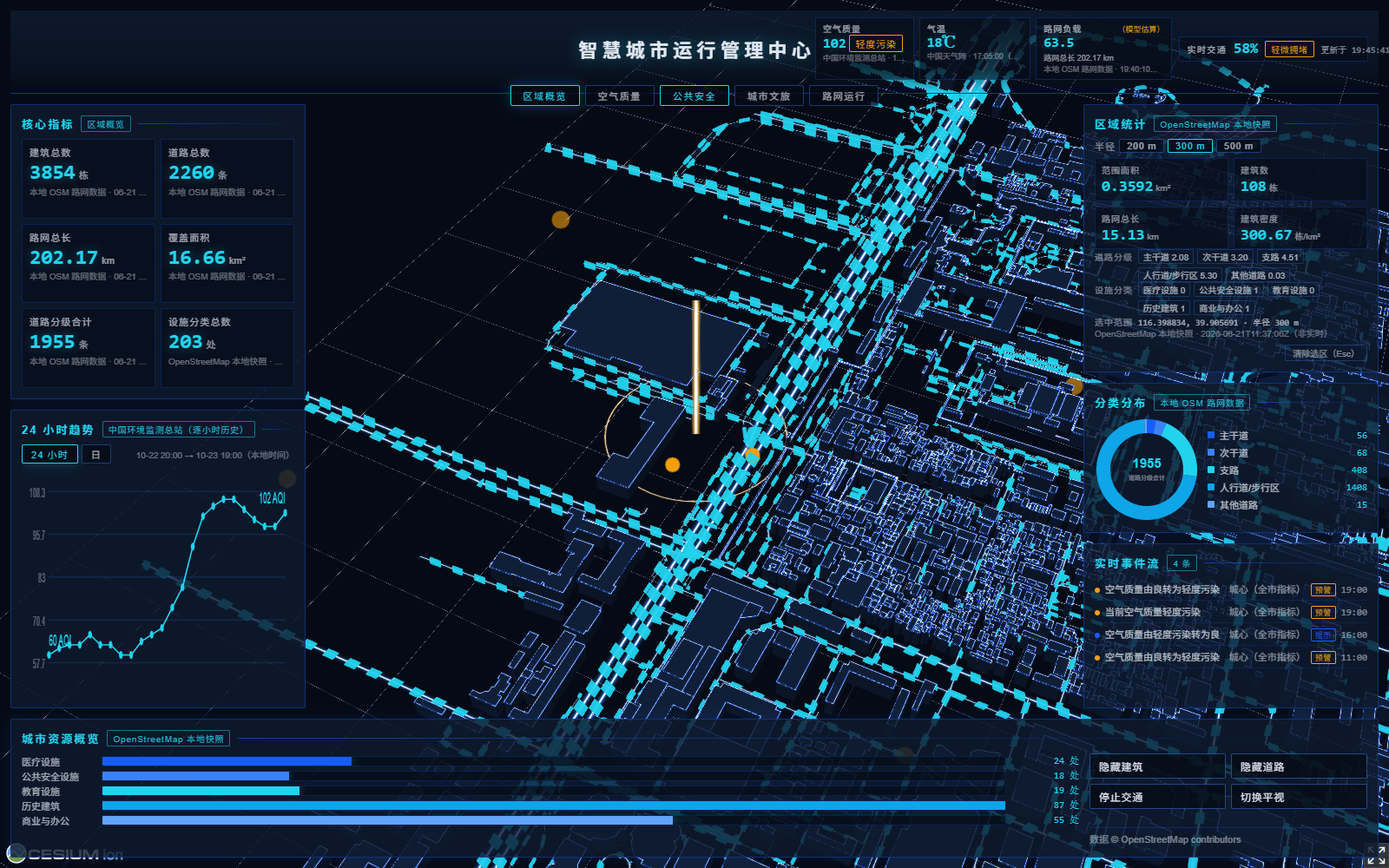
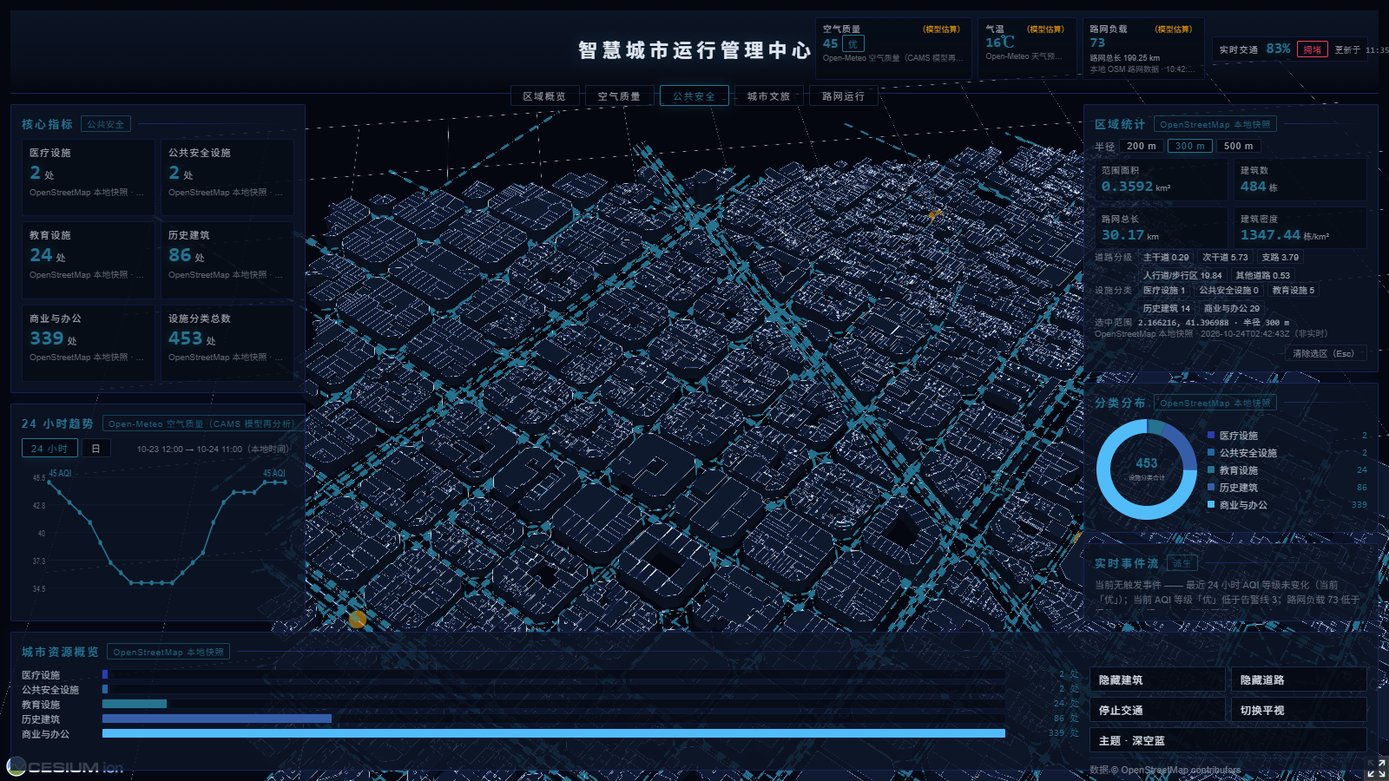
Plan T14: refresh the documentation and screenshots for Barcelona

diff --git a/backend-python/README.md b/backend-python/README.md
@@ -14,7 +14,8 @@ backend-python/
 ├── city_data/         # 城市运行指标数据层（公开数据源 + 聚合 + 降级）
 │   ├── models.py      #   Pydantic 契约（每个指标都必须带 source）
 │   ├── http.py        #   只用标准库的 JSON 取数封装
-│   ├── city_codes.py  #   cnemc 城市/省份代码表静态快照（只有代码，参数校验用）
+│   ├── cities.py     #   城市表静态快照（含取数点与时区，参数校验用）
+│   ├── aqi.py        #   国标 GB/T 3095-2012 的 IAQI 分段与换算（纯函数）
 │   ├── aggregator.py  #   并发取数 + 缓存 + 降级
 │   ├── events.py      #   纯函数：从真实指标派生事件流
 │   └── sources/       #   一个源一个模块（空气质量 / 天气 / 本地路网 / 设施 / 区域统计）
@@ -145,9 +146,10 @@ cd backend-python
 ./.venv/Scripts/python.exe scripts/fetch_osm_data.py
 ```
 
-脚本默认抓取北京天安门周边 `39.905,116.380,39.925,116.420`
-（south,west,north,east）的范围，多端点轮询 + 重试；**空结果会被当成失败**，
-不会把空文件覆盖到现有数据上。完整参数表和注意事项见 `scripts/README.md`。
+脚本默认抓取巴塞罗那 Eixample 街区与圣家堂一带
+`41.385,2.145,41.405,2.185`（south,west,north,east）的范围，多端点轮询 + 重试；
+**空结果会被当成失败**，不会把空文件覆盖到现有数据上。
+完整参数表和注意事项见 `scripts/README.md`。
 
 **文件缺失或损坏的后果**：`/api/buildings` 与 `/api/roads` 会返回 **503**
 （统一文案「城市数据暂时不可用，请稍后重试」），而不是空集合 —— 详见
@@ -278,7 +280,7 @@ font-src 'self' data:
 - `GET /api/buildings` —— 获取建筑数据
 - `GET /api/roads` —— 获取道路数据
 - `GET /api/traffic-status` —— 获取交通状态（**值由时间确定性推导，随时间变化**，不再是写死的固定值）
-- `GET /api/city/overview?cityCode=110000` —— **城市运行指标聚合**（空气质量 / 天气 / 路网静态指标 / 设施分类），每个指标都带来源标注与时间戳
+- `GET /api/city/overview?city=barcelona` —— **城市运行指标聚合**（空气质量 / 天气 / 路网静态指标 / 设施分类），每个指标都带来源标注与时间戳
 - `GET /api/city/area?bbox=min_lon,min_lat,max_lon,max_lat` —— **矩形范围的空间统计**（`bbox` 必填）
 
 `/api/traffic-status` 不校验 API key（前端不携带 key，这个端点必须始终可访问）。
@@ -315,11 +317,11 @@ font-src 'self' data:
 ### `GET /api/city/overview` —— 城市运行指标
 
 把**真实公开数据**聚合成一份带来源标注与时间戳的统一契约。实现在 `city_data/` 包里
-（`models.py` 契约 / `http.py` 取数 / `sources/*` 一个源一个模块 / `aggregator.py`
-并发 + 缓存 + 降级）。
+（`models.py` 契约 / `http.py` 取数 / `cities.py` 城市表 / `aqi.py` AQI 换算 /
+`sources/*` 一个源一个模块 / `aggregator.py` 并发 + 缓存 + 降级）。
 
-- `cityCode` 默认 `110000`（北京），**只接受 cnemc 城市/省份代码表里的值**，
-  否则 400（代码表是静态快照，校验**不依赖网络** —— 上游挂了也不会把端点变成 400）。
+- `city` 默认 `barcelona`（巴塞罗那），**只接受本地城市表 `city_data/cities.py` 里的 id**，
+  否则 400（城市表是静态快照，校验**不依赖网络** —— 上游挂了也不会把端点变成 400）。
 - **端点永不 500**：任何一个上游失败或超时都只是把它放进 `degraded`，
   其余指标照常返回；聚合器整体出意外也返回一份「全部降级」的 200。
 - 响应带 `Cache-Control: public, max-age=30` 与 `X-Data-Generated-At`。
@@ -329,10 +331,10 @@ font-src 'self' data:
 
 | 键 | 类型 | 含义 |
 |---|---|---|
-| `city` | object | `{code, name, latitude, longitude}`（取不到经纬度时为 `null`） |
+| `city` | object | `{id, name, latitude, longitude, timezone}` |
 | `generated_at` | str | 本次响应生成的时间，ISO8601 UTC |
 | `metrics` | array | 指标列表，**每个都带 `source`** |
-| `series` | array | 时间序列（24 小时 AQI + 14 天逐日 AQI） |
+| `series` | array | 时间序列（24 小时 AQI + 逐日 AQI） |
 | `facilities` | array | **设施分类计数**（本地 OSM 快照；取不到时是**空数组**，不编数字） |
 | `degraded` | array | **取不到的源的名字**（前端据此显示「数据源暂不可用」） |
 
@@ -352,7 +354,7 @@ font-src 'self' data:
 
 | 键 | 类型 | 含义 |
 |---|---|---|
-| `name` | str | 来源名（「中国环境监测总站」…） |
+| `name` | str | 来源名（「Open-Meteo 天气预报」…） |
 | `url` | str | 真实取数地址（本地文件用仓库相对路径） |
 | `observed_at` | str \| null | 上游**数据自身**的时间戳；取不到时是 `null` |
 | `fetched_at` | str | 我们**取到**它的时间；缓存命中时仍是**首次**取数的时间 |
@@ -363,13 +365,29 @@ font-src 'self' data:
 
 | 源 | 地址 | 凭据 | 实时性 | 降级 |
 |---|---|---|---|---|
-| 空气质量（AQI / 分级 / 首要污染物） | `https://air.cnemc.cn:18007/CityData/GetAllCityRealTimeAQIModels`（GET） | 免凭据，**必须带 `Referer: https://air.cnemc.cn:18007/`** | 实时（小时级） | 取不到 → 进 `degraded`，指标值 `null` |
-| 污染物浓度 + 24 小时序列 | `https://air.cnemc.cn:18007/HourChangesPublish/GetCityRealTimeAqiHistoryByCondition?citycode=<code>`（**POST，body 为 `{}`**） | 同上 | 实时 | 同上 |
-| 逐日序列（14 天，AQI + 六项污染物日均值） | `https://air.cnemc.cn:18007/HourChangesPublish/GetCityDayAqiHistoryByCondition?citycode=<code>`（**POST，body 为 `{}`**） | 同上 | 按定义不是实时（最旧的一条是 14 天前） | 同上；**只产出序列**，不产出指标 |
-| 气温 / 湿度 | `http://www.weather.com.cn/data/sk/101010100.html` | 免凭据 | **不新鲜**（见下） | 同上 |
+| 气温 / 湿度 / 体感温度 / 风速 / 降水 | `https://api.open-meteo.com/v1/forecast?…&current=…&timezone=<tz>&timeformat=unixtime` | 免凭据 | 小时级（**数值模式**，不是站点实测） | 取不到 → 进 `degraded`，指标值 `null` |
+| AQI / 六项污染物浓度 + 24 小时序列 + 逐日序列 | `https://air-quality-api.open-meteo.com/v1/air-quality?…&hourly=…&timezone=<tz>&timeformat=unixtime` | 免凭据 | 小时级（**CAMS 模型再分析**，11 km 网格） | 同上 |
 | 建筑 / 道路数量、路网总长、覆盖面积、各等级道路条数 | 本地 `geojson/*.geojson` | 无 | 静态快照 | 文件读不到 → 进 `degraded` |
 | 路网负载指数 | 上面那份本地数据**自己算** | 无 | —— | **模型估算**（`estimated: true`） |
 | 设施分类（医疗 / 公共安全 / 教育 / 历史建筑 / 商业办公） | 本地 `geojson/buildings.geojson` **按 OSM 标签统计** | 无 | 静态快照 | 文件读不到 → 进 `degraded`，`facilities` 是**空数组** |
+
+**两个远程源都是模式数据**（数值天气预报 / CAMS 再分析），所以它们的
+`estimated` 是 `true` —— 界面会显示「（模型估算）」。本地 OSM 快照是实测，
+`estimated` 是 `false`。
+
+#### AQI 的口径（**自己算的，不是谁发布的**）
+
+open-meteo 只给**污染物浓度**（μg/m³），不给中国国标口径的 AQI。
+本项目按 **GB/T 3095-2012** 的 IAQI 分段表自己换算（`city_data/aqi.py`）：
+
+- 分段点：`0 / 50 / 100 / 150 / 200 / 300 / 400 / 500`，
+  各污染物的浓度区间与线性内插公式见 `city_data/aqi.py` 的模块 docstring。
+- 统计口径：PM2.5 / PM10 / NO2 / SO2 / CO 取 **24 小时滑动平均**，O3 取 **8 小时滑动平均**。
+- `AQI = max(各污染物的 IAQI)`；全部取不到时是 `null`（**不许填 0** —— 0 在国标里是「优」）。
+- CO 的国标单位是 mg/m³，上游给的是 μg/m³，换算在模块内部做。
+
+**这是「按国标分段表换算出来的 AQI」，不是任何机构发布的 AQI。**
+界面与文档都按这个口径表述，不含糊。
 
 设施分类的规则**只写在 `city_data/sources/facilities.py`**（前端只渲染）：
 医疗 `building=hospital`；公共安全 `amenity=police` / `amenity=fire_station` /
@@ -379,45 +397,42 @@ font-src 'self' data:
 商业与办公 `building=commercial|retail|office|hotel` / `shop=mall` / `office=government`。
 
 **一个建筑只归一类**（按上面顺序取第一个命中）—— 环形图要能对上账，所以不许重复计数。
-2026-10-22 实测（3854 栋建筑，**去重后**）：医疗 **24**、公共安全 **18**、教育 **19**、
-历史建筑 **87**、商业与办公 **55**，合计 **203** 处。`estimated = false`（实测计数，不是模型估算）。
+`estimated = false`（实测计数，不是模型估算）。
 
-三个必须记住的坑（都是实测踩出来的）：
+实测（2026-10-24，本机，巴塞罗那取景范围 4366 栋建筑，**去重后**）：
+医疗 **2**、公共安全 **2**、教育 **24**、历史建筑 **86**、商业与办公 **339**，
+合计 **453** 处。比例悬殊是**数据事实**：Eixample 一带 72% 的建筑是
+`building=apartments`（住宅），不命中任何设施分类；而 `building=hospital`
+在这个范围里**一栋都没有**（医疗的 2 处是 `amenity=clinic` / `healthcare=clinic`）。
 
-1. cnemc 的历史接口**必须 POST 且 body 为空对象**，用 GET 一律 404。
-2. cnemc 的 `TimePoint` 有两种格式：`"/Date(1792558800000)/"`（.NET 毫秒时间戳）
-   与 `"2026-10-22T11:00:00"`（不带时区的本地时间），两种都要能解析。
-3. **天气源只有北京 `101010100` 通**（上海 `101020100`、深圳 `101280601` 都返回
-   HTML 错误页），别的城市直接判为不可用 —— 不去瞎试别的 cityid。
-   而且它的时间戳**不可靠**：只给 `HH:MM`，没有日期，实测本地 12:00 时它报 17:05
-   （落在未来）。本项目的处理是补上今天的日期、落在未来就回退一天，
-   并用「观测时间与当前时间差 > 1 小时」把 `realtime` 标成 `false` ——
-   **不新鲜就说不新鲜**。
+#### 许可与署名
+
+| 数据 | 许可 | 本项目需要做什么 |
+|---|---|---|
+| Open-Meteo 天气 / 空气质量 | **CC BY 4.0** | **必须署名**：Open-Meteo + CAMS ENSEMBLE 数据提供方 |
+| Open-Meteo 免费档 | —— | **仅限非商业用途**；商业用途需要付费档与 API key |
+| OpenStreetMap | **ODbL** | 展示数据时必须标注「© OpenStreetMap contributors」 |
+
+界面里已经有 OSM 署名行（删掉它等于违反许可证）。open-meteo 的署名写在
+README 的「数据来源」小节与 `source.name` 里（源名自带「（CAMS 模型再分析）」）。
 
 #### 缓存与超时
 
-- 六个源**并发**取数（`asyncio.gather` + `asyncio.wait_for`），
+- 四个源**并发**取数（`asyncio.gather` + `asyncio.wait_for`），
   **每个源独立 5 秒预算**：慢源只拖慢自己。
-- 缓存：空气质量 30 分钟、**逐日历史 60 分钟**、天气 10 分钟、静态路网指标进程内常驻。
+- 缓存：空气质量 30 分钟、天气 10 分钟、静态路网指标进程内常驻。
 - **缓存命中时 `fetched_at` 仍是首次取数的时间** —— 那才是真实的数据年龄。
 - 取数失败**不写缓存**（否则坏数据会被缓存住 30 分钟）。
 
-实测（2026-10-22，本机）：冷缓存首次 1125 ms（外部源的真实往返 + 本地 GeoJSON
-统计），第二次起 0–16 ms（走缓存）。
-
 #### 逐日序列
 
-`aqi_daily` 序列是**第 6 个源**（中国环境监测总站 · 逐日历史）产出的：
-**14 天**逐日的 24 小时均值（AQI / PM2.5 / PM10 / O3 / NO2 / SO2 / CO）。
+`aqi_daily` 序列由**同一个**空气质量源产出：**最近 7 个完整的本地日**
+（本地日按响应里的 `utc_offset_seconds` 切分，open-meteo 的日边界也是这么算的）。
 序列点的结构是 `{t, v, values}`：`v` 是当天的 AQI，`values` 是六项污染物的日均值。
 
 **向后兼容**：单指标序列（`aqi_24h`）的点仍然是 `{"t": …, "v": …}` ——
 空的 `values` 键被 `SeriesPoint` 上的 `@model_serializer(mode="wrap")` **整个省掉**，
 所以既有序列的点形状**一个字节都没变**。
-
-上游路径是 `POST` + **空 body** + `Referer` 头，控制器是 **`HourChangesPublish`**
-（站点上没有 `DayChangesPublish` 那个控制器）。逐日与逐小时是**两个源**，
-逐日挂了不影响 24 小时曲线。
 
 ### `GET /api/city/area` —— 矩形范围的空间统计
 
@@ -683,9 +698,13 @@ stats = processor.calculate_building_statistics(data)
 
 - 区域统计的 `facility_categories[].members` **恒为空数组**（只给分类计数，不给成员 id）——
   「点某个分类、高亮该范围内的建筑」还做不到，目前只回答「范围内有多少」
-- 天气源**只有北京可用**（`101010100`），且上游只给 `HH:MM`，时间戳可能落在未来
-  —— 契约里标 `realtime: false`，**不新鲜就说不新鲜**
-- 城市代码表是**静态快照**（**368 个代码**，只有代码没有名称），上游新增城市要重新抓
+- **两个远程源都是模式数据**：天气是数值天气预报，空气质量是 CAMS 模型再分析
+  （11 km 网格）。所以它们的 `source.estimated` 是 `true`，界面上会标「（模型估算）」。
+  AQI 也是**按国标分段表自己换算**的，不是任何机构发布的 AQI
+- 空气质量 API **只有 `hourly` 与 `current`，没有 `daily`**：逐日序列由逐小时数据
+  自己按本地日聚合（本地日用响应里的 `utc_offset_seconds` 切分）
+- 城市表是**静态快照**（手工维护），表里没有的城市 id 会被判为未知（保守的假阴性）
+- Open-Meteo 的免费档**仅限非商业用途**；商业用途需要付费档与 API key
 - `Dockerfile` / `docker-compose.yml` / `deploy/nginx.conf` **未经过 `docker build` /
   `nginx -t` 验证**（本机没有 Docker 与 nginx）
 

diff --git a/backend-python/scripts/README.md b/backend-python/scripts/README.md
@@ -19,7 +19,7 @@
   默认列表是若干公开实例，**本机链路不同时可以自行补充**（给了就替代默认列表；
   空值或全是非法值则回落到默认列表）。
 - **空结果当成失败**：HTTP 200 不等于抓到了数据。Overpass 会在 `remark` 字段里
-  报告运行时错误；只收录部分区域数据的实例会对本项目的北京 bbox 直接
+  报告运行时错误；只收录部分区域数据的实例会对本项目的 bbox 直接
   返回 0 个元素。这两种情况都会换下一个端点继续重试，**绝不会把空结果写成
   GeoJSON 覆盖掉现有数据**。所有端点都拿不到有效数据时脚本以非 0 退出，
   现有数据集保持原样。
@@ -33,10 +33,15 @@
 默认 bbox 为 `south,west,north,east`：
 
 ```
-39.905,116.380,39.925,116.420
+41.385,2.145,41.405,2.185
 ```
 
-即北京天安门周边约 4 km × 2 km 的范围。
+即巴塞罗那 Eixample 街区与圣家堂一带约 3.3 km × 2.2 km 的范围。
+
+> **数据量提醒**：这一带的建筑密度约为 1500 栋/km²，**一次性查询会超时** ——
+> 响应体过大时端点会回 502 或读超时。抓这一片请用 `--bbox` 切成小片分次抓，
+> 再按要素 id 去重合并（跨片的要素会在相邻两片各命中一次，合并时去重即可；
+> Overpass 返回的是**完整几何**、不按 bbox 裁剪，所以去重后几何是完整的那一份）。
 
 前端不再默认带 bbox 发请求（见 Plan 011：默认 bbox 和这份 OSM 抽取的范围完全重合，
 过滤等于没过滤），只有需要看子区域时才会显式传一个 bbox 进来。
@@ -48,8 +53,8 @@
 ```overpass
 [out:json][timeout:180];
 (
-  way["building"](39.905,116.380,39.925,116.420);
-  relation["building"](39.905,116.380,39.925,116.420);
+  way["building"](41.385,2.145,41.405,2.185);
+  relation["building"](41.385,2.145,41.405,2.185);
 );
 out body geom;
 ```
@@ -58,7 +63,7 @@ out body geom;
 
 ```overpass
 [out:json][timeout:180];
-way["highway"](39.905,116.380,39.925,116.420);
+way["highway"](41.385,2.145,41.405,2.185);
 out body geom;
 ```
 
@@ -78,7 +83,7 @@ OVERPASS_ENDPOINTS="https://a.example/api/interpreter,https://b.example/api/inte
 ```
 
 > **端点覆盖范围不一样**：只收录部分区域数据的实例，查别处可能什么都查不到。
-> 实测（第 3 个端点）：用它查北京的 `way["highway"]` 会返回 HTTP 200 +
+> 实测（第 3 个端点）：用它查巴塞罗那的 `way["highway"]` 会返回 HTTP 200 +
 > 0 个元素 —— 脚本会把这种「成功但没数据」的情况当成失败，继续换下一个端点，
 > 不会写出空文件。前两个是全球实例，但在部分网络下会比较慢甚至超时，
 > 所以留了重试；而**死端点由健康探测在 12 秒内排除**（正式查询的 180 秒超时只留给
@@ -98,7 +103,7 @@ OVERPASS_ENDPOINTS="https://a.example/api/interpreter,https://b.example/api/inte
 
 # 换范围
 ./.venv/Scripts/python.exe scripts/fetch_osm_data.py \
-    --bbox 39.900,116.370,39.930,116.430
+    --bbox 41.390,2.158,41.405,2.178
 
 # 只抓一类 / 换输出目录
 ./.venv/Scripts/python.exe scripts/fetch_osm_data.py --only buildings
@@ -110,15 +115,17 @@ OVERPASS_ENDPOINTS="https://a.example/api/interpreter,https://b.example/api/inte
 | 参数 | 默认值 | 说明 |
 |---|---|---|
 | `--endpoint URL` | 无 | 只用这一个 Overpass 端点（不给就按上面的顺序逐个试） |
-| `--bbox s,w,n,e` | `39.905,116.380,39.925,116.420` | 抓取范围，顺序是 `south,west,north,east` |
+| `--bbox s,w,n,e` | `41.385,2.145,41.405,2.185` | 抓取范围，顺序是 `south,west,north,east` |
 | `--out-dir DIR` | `backend-python/geojson` | GeoJSON 输出目录，不存在会自动创建 |
 | `--only buildings\|roads` | 两者都抓 | 只抓其中一类数据 |
+| `--probe-timeout SEC` | `12` | 健康探测的超时秒数。**慢实例不是死实例** —— 实测有的实例对最轻量的探活查询都要十几秒才响应，调大它，别把慢端点误判成不可达 |
 
 环境变量：
 
 | 变量 | 说明 |
 |---|---|
 | `OVERPASS_ENDPOINTS` | 覆盖端点列表（逗号分隔的 URL）；给了就替代默认列表，空值 / 全非法值回落到默认列表 |
+| `OVERPASS_PROBE_TIMEOUT` | 同 `--probe-timeout`（命令行优先级更高） |
 
 ## 输出
 
@@ -129,7 +136,7 @@ OVERPASS_ENDPOINTS="https://a.example/api/interpreter,https://b.example/api/inte
 
 > **`MultiPolygon` 为什么是 50 而不是 1**：仓库里原来那份抽取（文件时间戳
 > 2026-06-21）只有 1 个 `MultiPolygon`，而现在这份有 50 个。这是 **OSM 数据本身的变化** ——
-> 天安门周边这些年补了不少 `building` 关系（带内环的多边形建筑），Overpass 会把它们
+> 这一带这些年补了不少 `building` 关系（带内环的多边形建筑），Overpass 会把它们
 > 作为 relation 返回，本脚本按 `outer`/`inner` 拼成 `MultiPolygon`。不是转换出了问题：
 > 要素总数（3914 vs 3854）和道路的构成（1957 / 328 vs 1955 / 305）都在同一量级。
 > 拿新旧两份数据对比时别把这个差异当成 bug。
@@ -143,7 +150,7 @@ OVERPASS_ENDPOINTS="https://a.example/api/interpreter,https://b.example/api/inte
     {
       "type": "Feature",
       "properties": { "@id": "way/41662973", "highway": "pedestrian", "surface": "cobblestone" },
-      "geometry": { "type": "Polygon", "coordinates": [[[116.39, 39.91], ...]] },
+      "geometry": { "type": "Polygon", "coordinates": [[[2.17, 41.4], ...]] },
       "id": "way/41662973"
     }
   ]

diff --git a/README.md b/README.md
@@ -8,6 +8,7 @@
 
 中心城区的一小块 OpenStreetMap 建筑与道路，在浏览器里成了一座可以环视、可以查询、
 可以点进去的城市；四周的面板给出这片区域的运行指标与派生事件。
+场景是**巴塞罗那 Eixample 街区与圣家堂**一带约 3.3 km × 2.2 km 的范围。
 
 ## 它能做什么
 
@@ -18,7 +19,7 @@
 每个页签给出对应的指标卡、分类构成与趋势图；切页签时场景同步高亮该类别的建筑，其余压暗。
 
 **看趋势，不只看当下。** 左列的趋势面板支持 **24 小时**与**逐日**两个视图：
-逐日视图给出最近 14 天的 AQI 与六项污染物日均值，可逐项切换。
+逐日视图给出最近 7 个完整本地日的 AQI 与六项污染物日均值，可逐项切换。
 时间都是本地时间，取不到数据时显示空态，不画一条假的平线。
 
 **点一下地面，查那片范围。** 在三维场景里单击地面，右列立刻给出这一片的建筑数、路网总长、
@@ -33,9 +34,9 @@
 路网负载超阈、极端天气。场景里用告警脉冲环与垂直光柱标出位置，点一条就飞过去。
 没有告警系统时事件流为空，并说明是哪些条件没触发。
 
-**自己挑一套配色。** 底栏的主题入口切换三套预设 —— 深空蓝（默认）、石墨灰、深海青。
+**自己挑一套配色。** 底栏的主题入口切换四套预设 —— 深空蓝（默认）、石墨灰、深海青、哑光白模。
 道路主色与建筑本体色可以自己取，辉光强度与路面不透明度可以拖动，改完立刻生效。
-换主题只改材质上的颜色值，不重建任何几何 —— 3854 栋楼与 2260 条路的图元原地不动。
+换主题只改材质上的颜色值，不重建任何几何 —— 4366 栋楼与 3794 条路的图元原地不动。
 
 **自己跑起来。** 生产形态下后端进程同时提供接口与页面，一个 uvicorn 进程即可。
 
@@ -46,6 +47,8 @@
 ![空气质量页签：首要污染物、六项污染物浓度、浓度构成环形图与 24 小时 AQI 趋势](docs/images/dashboard-air-quality.png)
 
 六项污染物在环形图里统一换算成 μg/m³ 才能相加，底栏的条形图则各自保留原单位。
+AQI 是按国标 GB/T 3095-2012 的分段表**自己换算**的（24 小时滑动平均，O₃ 取 8 小时），
+不是任何机构发布的 AQI —— 换算口径写在 `backend-python/city_data/aqi.py` 里。
 
 ### 公共安全
 
@@ -124,12 +127,24 @@ cd backend-python      && ./.venv/Scripts/python.exe main.py
 
 | 数据 | 地址 | 凭据 | 实时性 |
 |---|---|---|---|
-| 空气质量（AQI / 分级 / 首要污染物 / 24 小时序列 / 14 天逐日序列） | `https://air.cnemc.cn:18007`（中国环境监测总站） | 免凭据 | 实时（小时级）；逐日序列按定义不是实时 |
-| 气温 / 湿度 | `http://www.weather.com.cn/data/sk/101010100.html`（中国天气网） | 免凭据 | 上游只给 `HH:MM`，时间戳可能落在未来，契约里标 `realtime: false`；仅北京可用 |
+| AQI / 六项污染物浓度 / 24 小时序列 / 逐日序列 | `https://air-quality-api.open-meteo.com/v1/air-quality`（Open-Meteo · CAMS） | 免凭据 | 小时级；**CAMS 模型再分析值**，不是站点实测 |
+| 气温 / 湿度 / 体感温度 / 风速 / 降水 | `https://api.open-meteo.com/v1/forecast`（Open-Meteo） | 免凭据 | 小时级；**数值模式预报**，不是站点实测 |
 | 建筑 / 道路 / 路网 / 设施分类 / 区域统计 | 本地 OpenStreetMap 抽取 | 无 | 静态快照 |
 
+- 场景是**西班牙巴塞罗那**的 Eixample 街区与圣家堂一带（约 3.3 km × 2.2 km）。
+- **两个远程源都是模式数据**，所以它们的指标都标「（模型估算）」。
+- AQI 是**按国标 GB/T 3095-2012 的分段表自己换算**的（24 小时滑动平均，O3 取 8 小时），
+  **不是任何机构发布的 AQI** —— 换算口径写在 `backend-python/city_data/aqi.py` 里。
 - 路网负载指数是**模型估算**（静态几何折算的供给紧张度，不是实测路况），界面上标「（模型估算）」。
 - 端点不会因为某个上游挂了而报错 —— 该源降级，其余指标照常返回。
+
+### 许可与署名
+
+| 数据 | 许可 | 要求 |
+|---|---|---|
+| OpenStreetMap | ODbL | 界面里必须署名「© OpenStreetMap contributors」 |
+| Open-Meteo | CC BY 4.0 | 必须署名 **Open-Meteo** 与 **CAMS ENSEMBLE** 数据提供方 |
+| Open-Meteo 免费档 | —— | **仅限非商业用途**；商业用途需要付费档与 API key |
 
 ## 技术栈
 

diff --git a/docs/ARCHITECTURE.md b/docs/ARCHITECTURE.md
@@ -307,10 +307,12 @@ Vue 会**解包 ref**，`stage.viewer` 拿回来是 `null` 而不是那个 `Ref`
   `backend-python/scripts/README.md`）
 - 界面里**常驻署名行**「数据 © OpenStreetMap contributors」—— 展示这份数据必须署名，
   删掉这一行等于违反许可证
-- 空气质量与天气走**免凭据的公开源**，不注册任何 key
-- 空气质量有两条序列：24 小时逐小时序列与 **14 天逐日序列**（逐日是各项污染物的日均值，
-  与逐小时序列分属两个源，逐日挂了不影响 24 小时曲线）
-- 天气源**只有北京可用**，别的城市直接降级 —— 这是上游的限制
+- 空气质量与天气走**免凭据的公开源**（Open-Meteo），不注册任何 key
+- 空气质量有两条序列：24 小时逐小时序列与 **逐日序列**（逐日是各项污染物的日均值），
+  两条序列由**同一个源**产出 —— 上游的一次请求就同时给出逐小时与逐日所需的数据
+- 两个远程源**都是模式数据**（数值天气预报 / CAMS 模型再分析），指标的 `estimated`
+  是 `true`；AQI 是按国标分段表**自己换算**的，不是谁发布的
+- 城市表是静态快照（手工维护），表里没有的城市 id 会被判为未知
 - 设施分类的判定规则**只写在后端**（`city_data/sources/facilities.py`），
   前端不判定任何标签
 - 区域统计端点**只读本地 OSM 快照**（`bbox` 必填），不走「多源并发 + 降级」那套聚合器
@@ -321,8 +323,9 @@ Vue 会**解包 ref**，`stage.viewer` 拿回来是 `null` 而不是那个 `Ref`
   `nginx -t` 验证**（编写环境里没有 Docker 与 nginx），首次使用请先本地验证
 - `dist/` 总体积 **7.72 MB**（104 个文件），其中 3.73 MB 是自托管的 Cesium 运行时。
   按「应用自身产物」口径是 3.97 MB，按「整个 `dist/`」口径不满足 5 MB
-- 城市代码表是静态快照（**368 个代码**，只有代码没有名称），上游新增城市后需要重新抓
-- 天气源只给 `HH:MM`，时间戳可能落在未来，契约里会标 `realtime: false`；
-  且**只有北京可用**
+- 城市表是静态快照（手工维护），上游新增城市后需要往表里加一条
+- **两个远程源都是模式数据**：天气是数值预报，空气质量是 CAMS 再分析（11 km 网格），
+  不是站点实测；界面上标「（模型估算）」
+- Open-Meteo 免费档**仅限非商业用途**
 - **区域统计的 `facility_categories[].members` 恒为空数组**（只给分类计数，不给成员 id）——
   所以「点某个分类，高亮该范围内的建筑」还做不到，目前只回答「范围内有多少」
